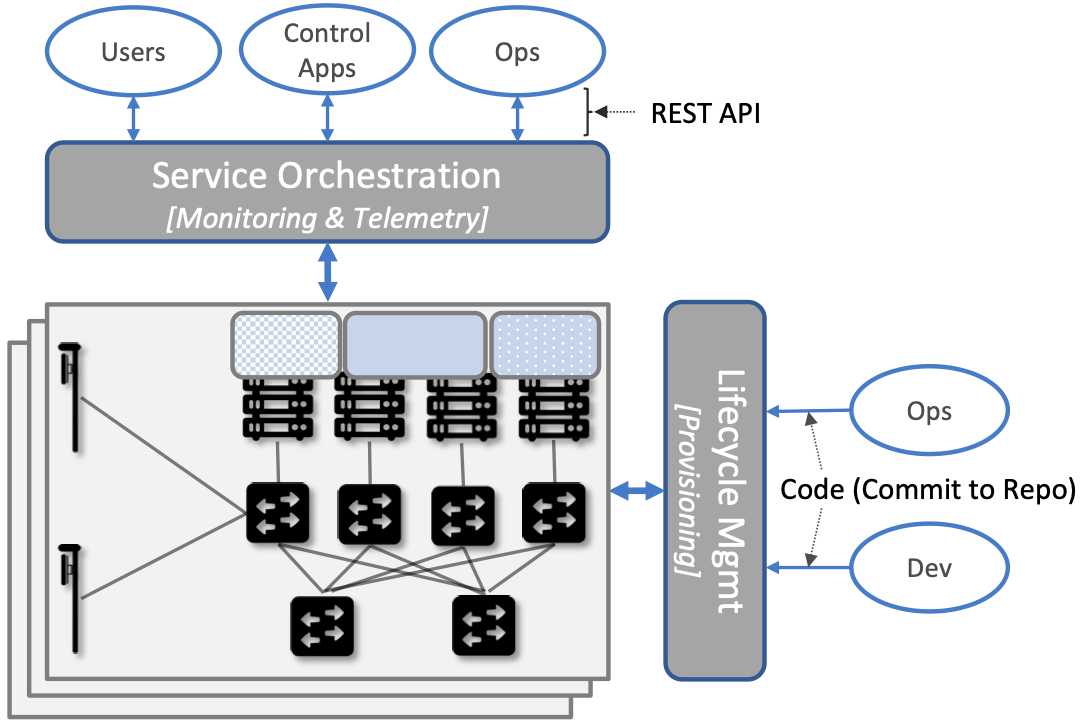
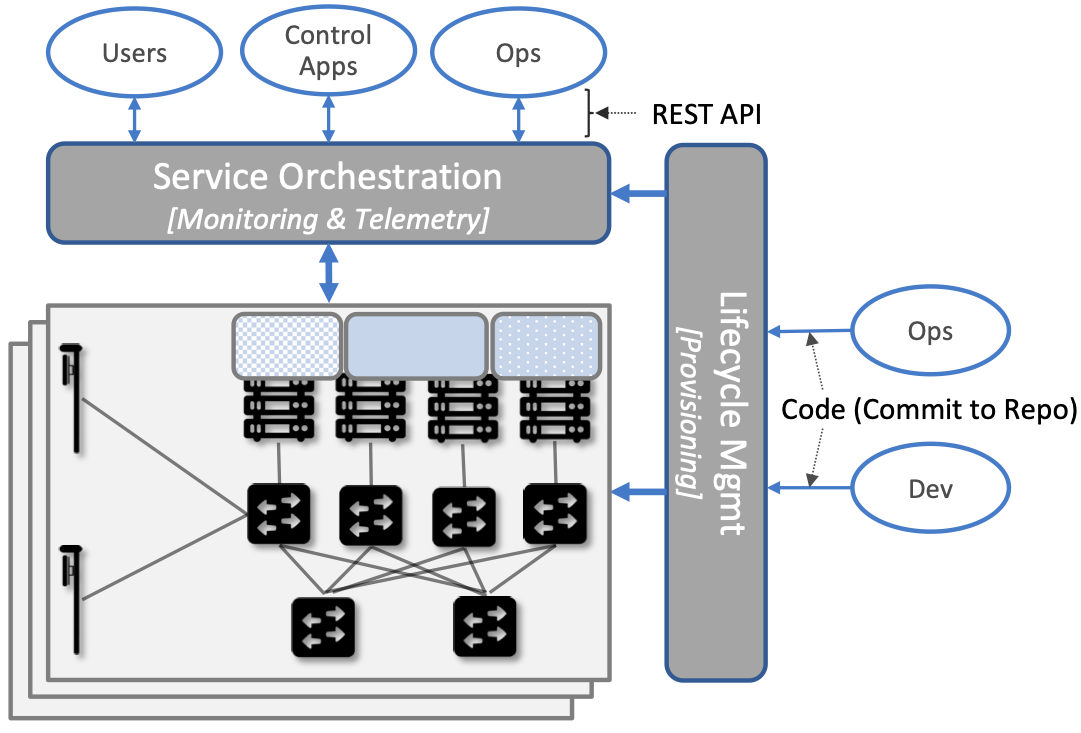
fixed on-line/off-line fig

diff --git a/cloud.rst b/cloud.rst
@@ -422,7 +422,7 @@ At a high level, AMP is organized around the four subsystems shown in
 While AMP implements all four subsystems, there is an alternative
 perspective worth highlighting, one in which the management platform
 is characterized as having *on-line* and *off-line* components. Such a
-two dimensional schematic shown in :numref:`Figure %s <fig-2D>`.
+two dimensional schematic is shown in :numref:`Figure %s <fig-2D>`.
 Lifecycle Management (coupled with Resource Provisioning) runs
 off-line, sitting adjacent to the hybrid cloud. Operators and
 Developers provision and change the system by checking code (including
@@ -431,9 +431,7 @@ the running system. Service Orchestration (coupled with Monitoring and
 Telemetry) runs on-line, layered on top of the hybrid cloud being
 managed. It defines an API that can be used to read and write
 parameters of the running system, which serves as a foundation for
-building closed-loop control. Although not shown in the schematic, the
-off-line component is also used to lifecycle-manage the on-line
-components.
+building closed-loop control. 
 
 .. _fig-2D:
 .. figure:: figures/ops/Slide11.png 
@@ -442,6 +440,17 @@ components.
 
    Alternative representation of the management platform, highlighting
    the off-line and on-line aspects of cloud management.
+
+Finally, the off-line and on-line aspects of cloud management are
+related in the sense that the off-line component also
+lifecycle-manages the on-line component. This is because the latter
+are deployed as Kubernetes applications, just like SD-Core and
+SD-RAN. Version management is a key aspect of this relationship since
+the runtime API to the 5G connectivity service has to stay in sync
+with the underlying implementation of the constituent subsystems. How
+Aether realizes version control is described in more detail in the
+companion Edge Cloud Operations book.
+
 
 6.3.1 Resource Provisioning
 ~~~~~~~~~~~~~~~~~~~~~~~~~~~~~~~~
